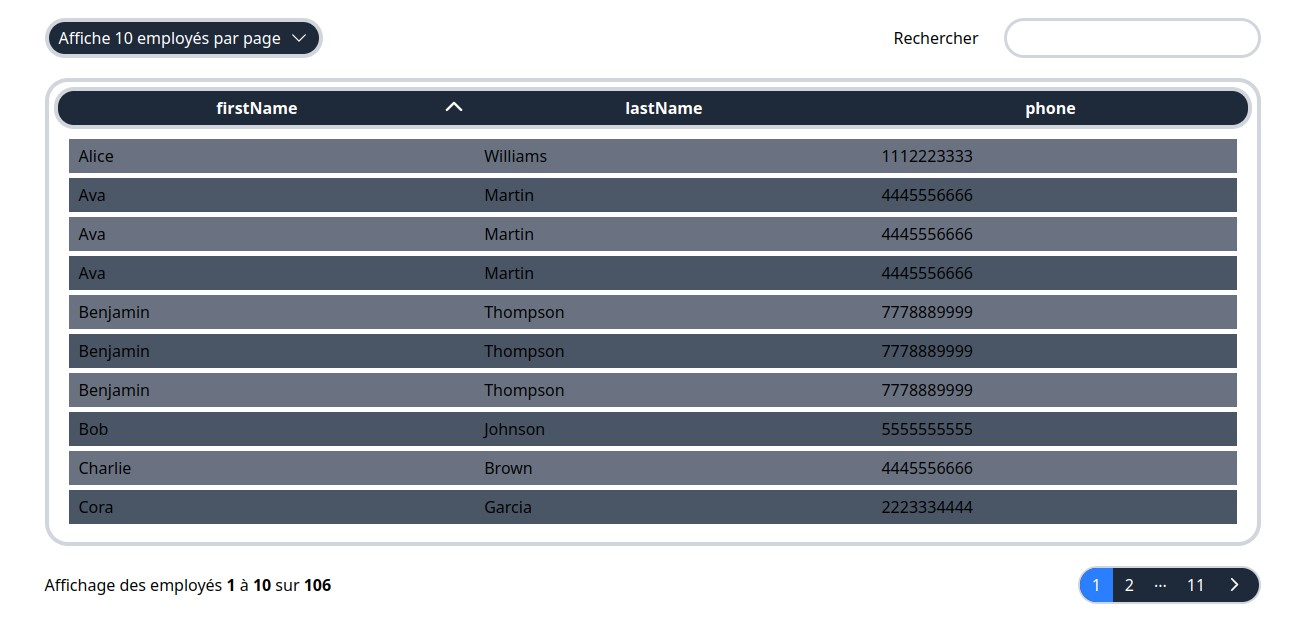
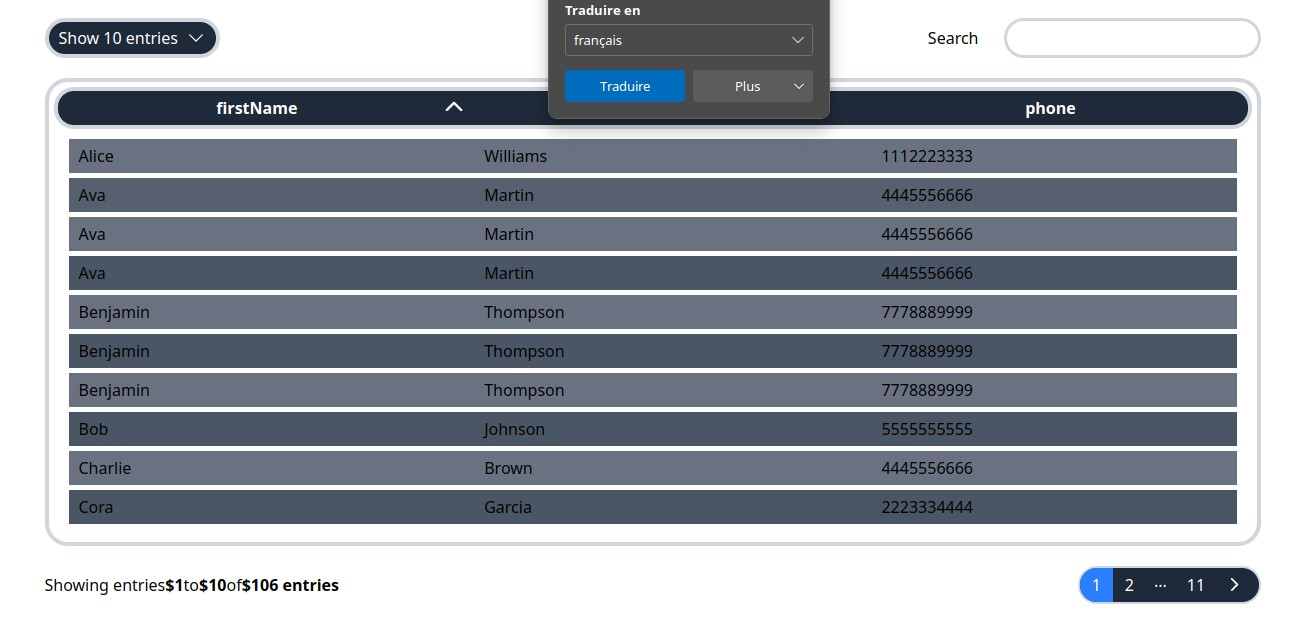
basic_usage photo changed

diff --git a/src/App.tsx b/src/App.tsx
@@ -778,27 +778,27 @@ function App() {
     <Table
       columns={columns}
       rows={rows}
-      defaultOrder={
-        {
-          property: 'lastName',
-          order: 'asc'
-        }
-      }
-      textContent={{
-        searchLabel: 'Rechercher',
-        sampleLabelPrefix: 'Affiche ',
-        sampleLabelSuffix: ' employés par page',
-        emptyTableText: 'Aucun employé',
-        custtomizeSampleInfoTextContent: (sampleBegin, sampleEnd, sampleLength) => {
-          if (sampleLength > sampleEnd) {
-            return <span>Affichage des employés <span className='font-bold'>{sampleBegin}</span> à <span className='font-bold'>{sampleEnd}</span> sur <span className='font-bold'>{sampleLength}</span></span>
-          } else {
-            return sampleLength > 1 ? <span>Affichage des employés <span className='font-bold'>'${sampleBegin}</span> à <span className='font-bold'>'${sampleEnd}</span></span>:''
-          }
-        },
-        previousPageButtonLabel: 'Page précédente',
-        nextPageButtonLabel: 'Page suivante'
-      }}
+      // defaultOrder={
+      //   {
+      //     property: 'lastName',
+      //     order: 'asc'
+      //   }
+      // }
+      // textContent={{
+      //   searchLabel: 'Rechercher',
+      //   sampleLabelPrefix: 'Affiche ',
+      //   sampleLabelSuffix: ' employés par page',
+      //   emptyTableText: 'Aucun employé',
+      //   custtomizeSampleInfoTextContent: (sampleBegin, sampleEnd, sampleLength) => {
+      //     if (sampleLength > sampleEnd) {
+      //       return <span>Affichage des employés <span className='font-bold'>{sampleBegin}</span> à <span className='font-bold'>{sampleEnd}</span> sur <span className='font-bold'>{sampleLength}</span></span>
+      //     } else {
+      //       return sampleLength > 1 ? <span>Affichage des employés <span className='font-bold'>'${sampleBegin}</span> à <span className='font-bold'>'${sampleEnd}</span></span>:''
+      //     }
+      //   },
+      //   previousPageButtonLabel: 'Page précédente',
+      //   nextPageButtonLabel: 'Page suivante'
+      // }}
 
       // key={rows.length}
       // {...tableProps}

diff --git a/README.md b/README.md
@@ -266,6 +266,8 @@ function App(): JSX.Element {
 }
 ```
 
+
+
 So we chose to define the columns with according to the keys firstName, lastName and phone of the type User.
 Let's see what our table looks like.
 
